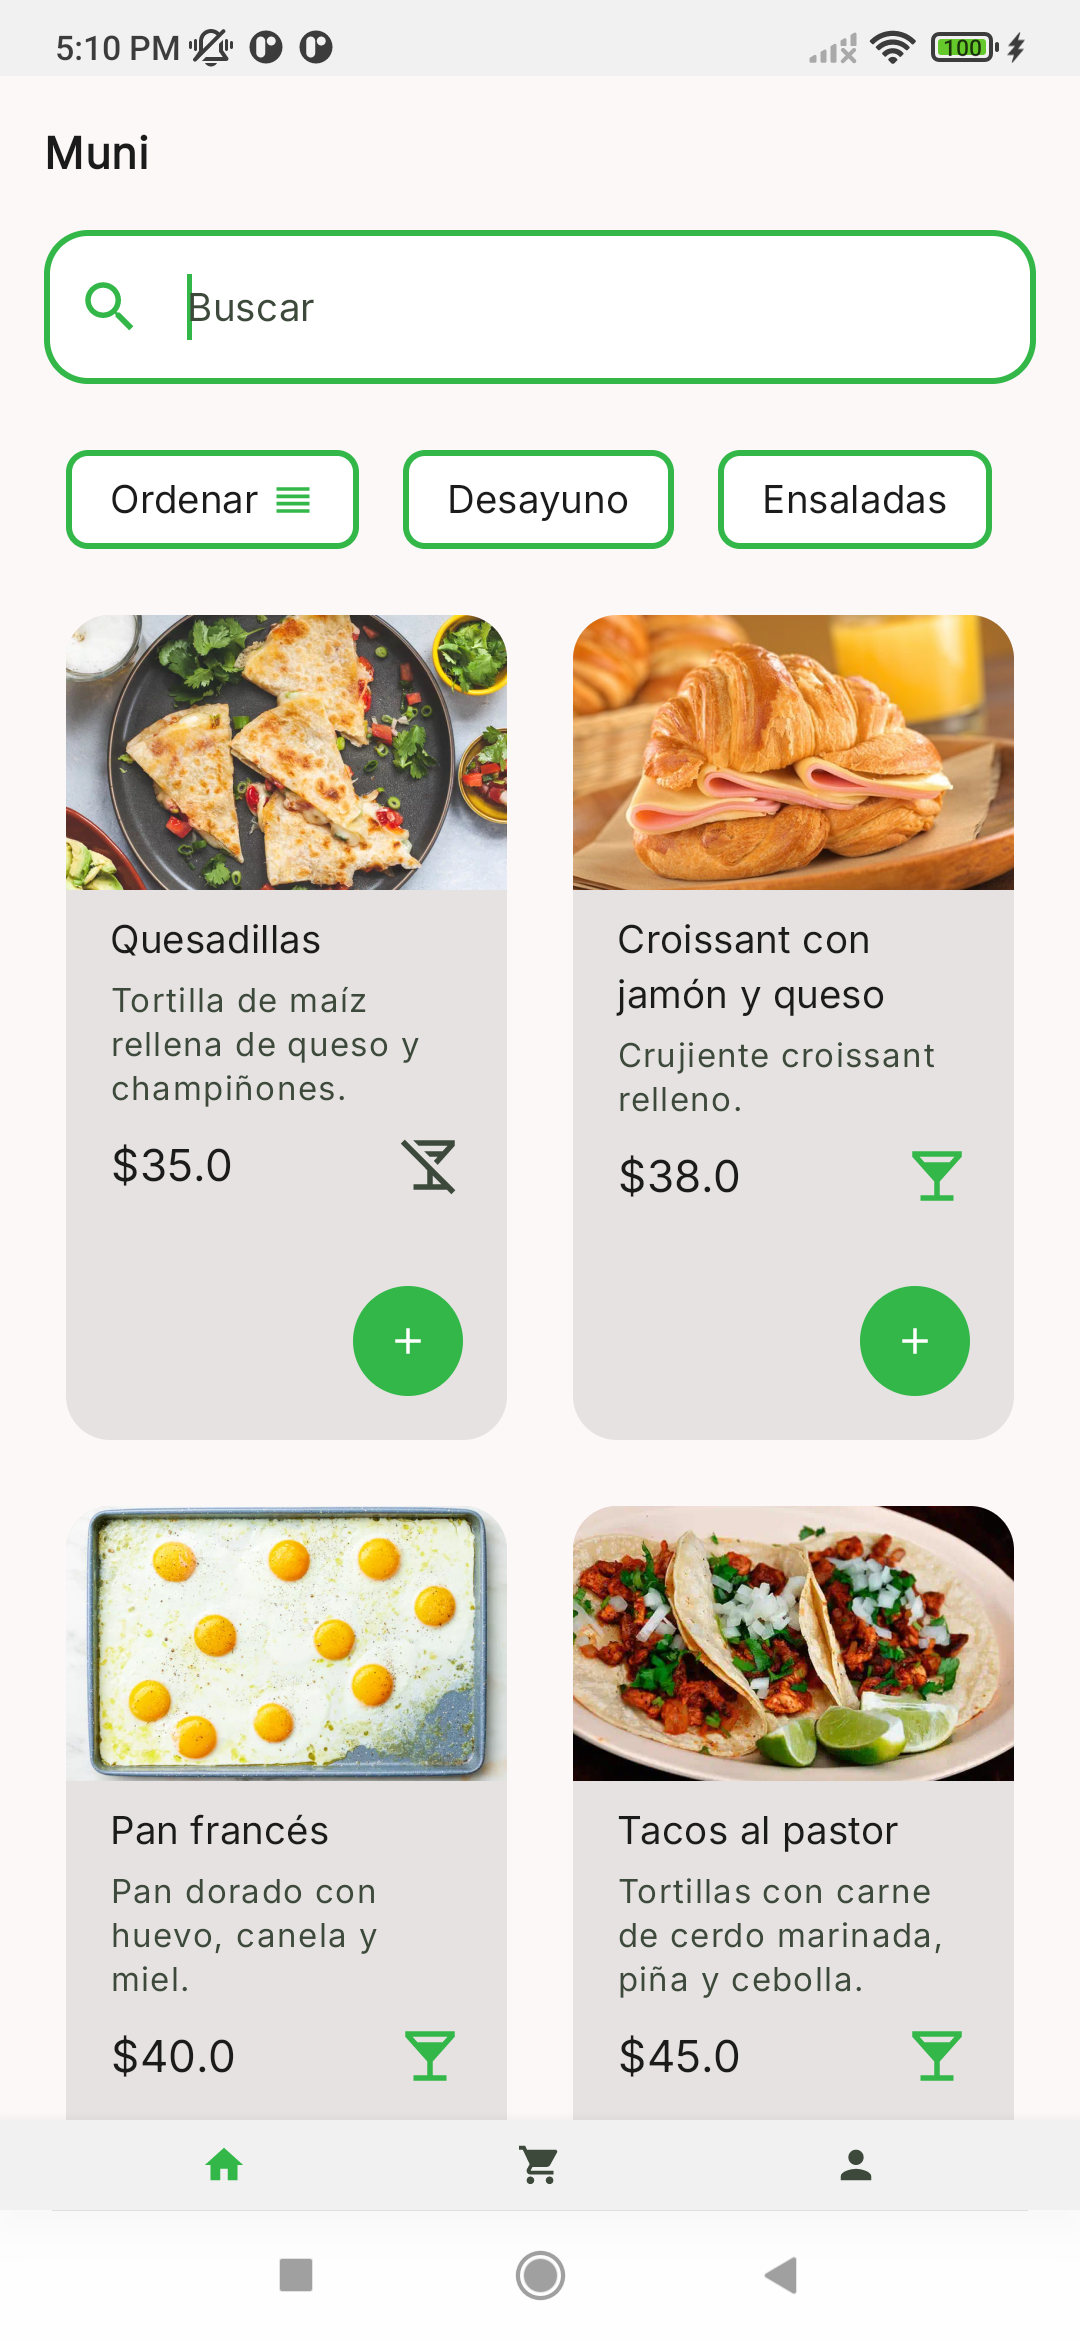
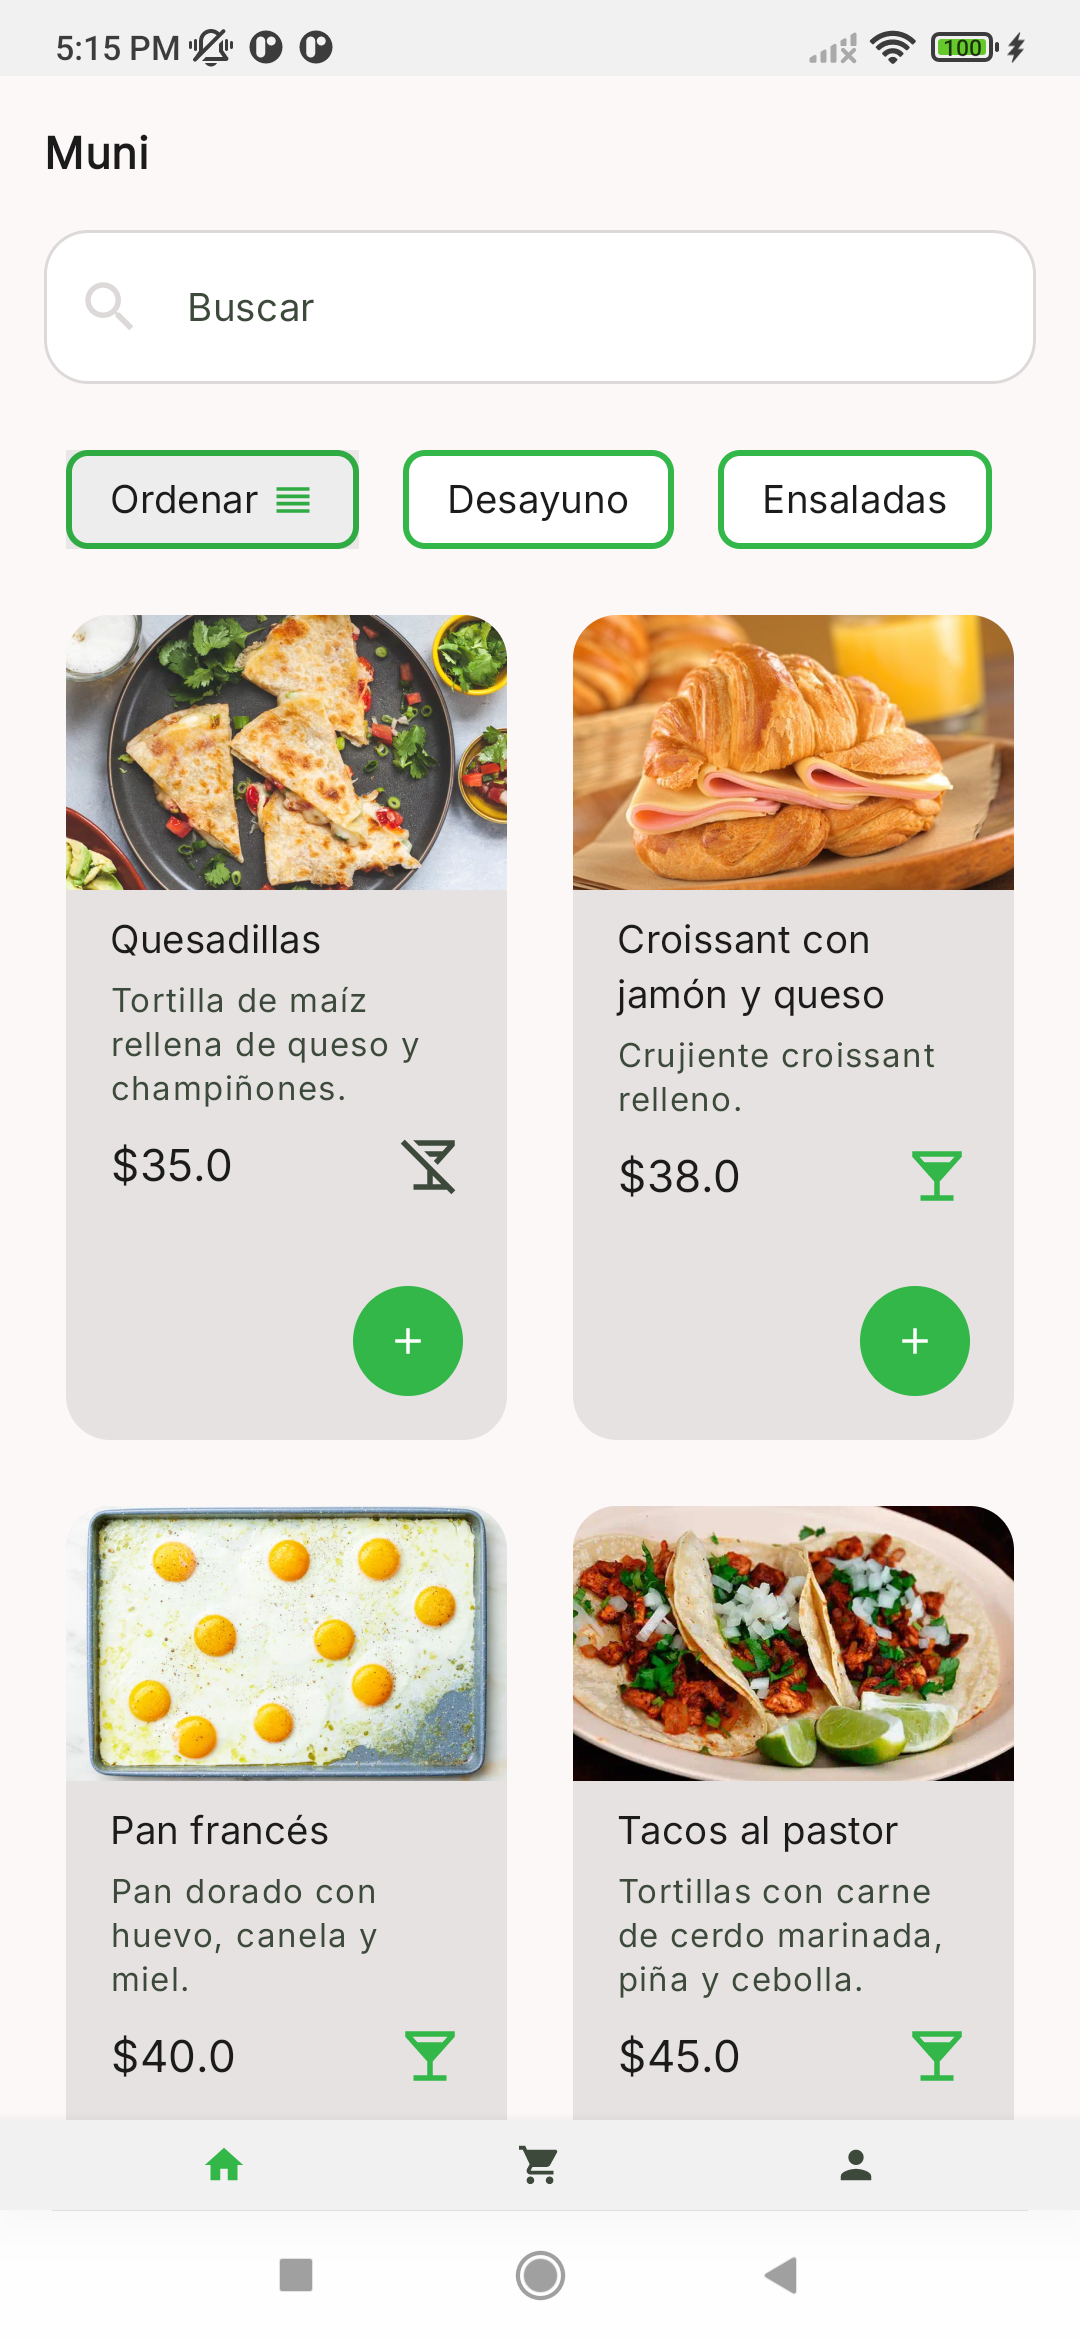
Update de readme 2

diff --git a/README.md b/README.md
@@ -107,13 +107,14 @@ Perfil
 
 <img src="screenshots/perfil_con_historial_de_ordenes.png" alt="Perfil" width="300"/>
 
-Seleccion de imagen de perfil
-
-<img src="screenshots/perfil_-_seleccionar_foto.png" alt="Perfil - Selección de imagen" width="300"/>
-
 Permiso para acceder a la cámara y galería
 
 <img src="screenshots/perfil_-_permisos_de_camara_y_galeria.png" alt="Perfil - Permisos" width="300"/>
+
+
+Seleccion de imagen de perfil
+
+<img src="screenshots/perfil_-_seleccionar_foto.png" alt="Perfil - Selección de imagen" width="300"/>
 
 Chequeo de email disponible
 
@@ -132,3 +133,7 @@ Historial de Pedidos con ordenes de compra
 Historial de Pedidos vacío
 
 <img src="screenshots/historial_de_pedidos_vacio.png" alt="Historial" width="300"/>
+
+Soporta Dark Mode:
+
+<img src="screenshots/dark_mode.png" alt="Dark Mode" width="300"/>
